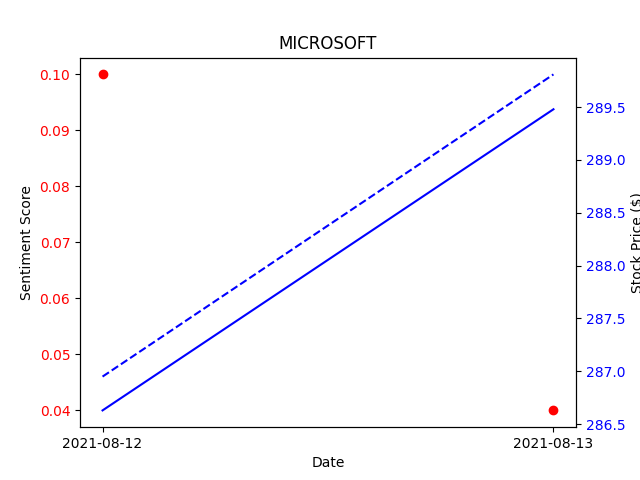
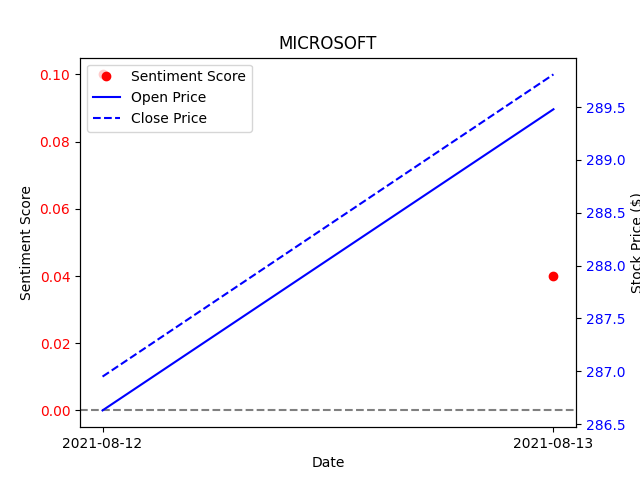
all ready to publish

diff --git a/app/templates/app/about.html b/app/templates/app/about.html
@@ -8,11 +8,10 @@
 <div class="jumbotron">
     <div class="row body-padding">
         <div class="col-md-4">
-            <p>Family is a huge part of who I am. I wouldn't be anything that I am today if it wasn't for the 
-            influence of all of my family members. As the fourth of five children I appreciate the example that each one 
-            in addition to that my parents. They all have provided me with a lot of guidence to get me where I am today.
-            In addition to my family, I grew up in far reaches of Maine and that is something that defines a big part 
-            of who I am. </p>
+            <p>I have loved growing up in Maine, and I have loved growing up with 4 siblings! Being the fourth boy, 
+            I had a lot of older brothers to look up to and learn from. It always a good time being around my siblings, 
+            parents, and extended family. Family is a huge part of my life, and I hope to maintain a close relationship 
+            with all of them.</p>
         </div>
         <div class="col-md-8">
             <img src="../../static/app/img/family.JPG" width="100%"/>
@@ -24,9 +23,9 @@
         </div>
         <div class="col-md-8">
             <p>
-                I like to live by the motto: "Work hard, play hard", so whenever I'm not busy with school work or a 
-                work work, I try to be doing the things that I love. I really enjoy being outside whenever I can, and 
-                being as active as I can be. Rock climbing, canyoneering, backpacking, and just travelling in general 
+                I like to live by the motto: "Work hard, play hard", so whenever I'm not busy with school or work 
+                I am usually active in doing the hobbies that I love. I really enjoy being outside whenever I can: 
+                Rock climbing, canyoneering, backpacking, and just travelling in general 
                 are some of my favorite things to do.  The cold doesn't even scare me! During the winter I enjoy 
                 snowshoeing and skiing. I try to find any reason I can to get outside, be active, and enjoy what nature 
                 has to offer. 

diff --git a/app/templates/app/financial.html b/app/templates/app/financial.html
@@ -5,14 +5,22 @@
 <h2>{{ title }}</h2>
 <h3>{{ message }}</h3>
 
-<p>The basic purpose of this module is to see the effect that the way news is presented has upon the subject matter. 
-    In this study I have decided to follow several companies and compare the tone of news articles about them to their 
-    change in stock prices. In order to analyze the tone, or sentiment, that news articles have towards a company, I have 
-    used APIs and text analytics to create a sentiment score for these companies daily. That score ranges from 1 to -1. A 
+<p>
+    The basic purpose of this module is to see the effect that the tone of news has upon the subject of the story.
+    In this study I have decided to follow several companies and compare the tone of news articles about them to their
+    change in stock prices.
+</p>
+<p>
+    In order to analyze the tone or sentiment that news articles have towards a company, I have 
+    used APIs and text analytics to create a sentiment score for these companies each day. That score ranges from 1 to -1. A 
     positive number indicates a positive sentiment and a negative number indicates a negative sentiment. 
-    This is then graphed side-by-side with the opening and closing stock prices for that company on the same day.</p>
-<p>The blue lines represent the stock prices over time. The solid line is the opening sales price, while the dashed line 
-    is the closing sales price. The red dots are the setiment scores for each day.</p>
+    This is then graphed side-by-side with the opening and closing stock prices for that company on the same day.
+</p>
+<p>
+    The blue lines represent the stock prices over time. The solid line is the opening sales price, while the dashed line 
+    is the closing sales price. The red dots are the setiment scores for each day. Again, if you have any questions or 
+    feedback, feel free to contact me.
+</p>
 
 <!--the tab links for each of the companies-->
 <div class="tab">

diff --git a/app/templates/app/index.html b/app/templates/app/index.html
@@ -7,13 +7,9 @@
         <div class="col-md-8">
             <h2 class="col-md-8">Welcome</h2>
             <p class="lead col-md-8">
-                I've created this website in order to help others get to know me and what I can do in a different way. This
-                website was developed using the MTV format that is associated with a Python-Django app. I have also tried to implement other nifty
-                programming skills that I have learned and enjoyed applying.
-            </p>
-            <p class="lead col-md-8">
-                Feel free to stay a while and enjoy everything that I have put into this website.
-                For questions and other inquiries, please feel free to contact me. You can find my contact info on the
+                I hope you enjoy learning more about me through this website. There are quite a few different pages to explore and 
+                some cool modules that I have added to this website. Feel free to poke around and contact me with any questions or 
+                feedback you may have. You can find my contact info on the
                 <a href="{% url 'contact' %}">Contact</a> page.
             </p>
         </div>
@@ -25,8 +21,8 @@
     <div class="col-md-4">
         <h2>API Implementation</h2>
         <p>
-            I've decided to dedicate a part of my website to show off one way that APIs can be used. Here, my website talks back and forth to another
-            website to get some pretty simple information and then display it on my website.
+            If you're into dad jokes, this is the spot for you! You can find your endless list of dad jokes on this page. Click on 
+            the button for a good laugh!
         </p>
         <p><a class="btn btn-default" href="{% url 'jokes' %}">Check it out &raquo;</a></p>
     </div>

diff --git a/app/templates/app/contact.html b/app/templates/app/contact.html
@@ -6,9 +6,11 @@
 <h3>{{ message }}</h3>
 
 
-<p>I am currently open to any questions regarding website development or job opportunities you may have for me.
+<p>
+    I am currently open to any questions regarding website development or job opportunities you may have for me.
     In addition, feel free to email me regarding comments about my website, like edits or other things you would like to see implemented.
-    Thank you for visiting and getting to know me more. I hope to hear from you soon!</p>
+    Thank you for visiting and getting to know me more. I hope to hear from you soon!
+</p>
 
 <address>
     <strong>Personal Email:</strong>   <a href="mailto:ezrfrost7@gmail.com">ezrafrost7@gmail.com</a><br />
@@ -29,7 +31,7 @@
     <div class="col-md-4">
         <h2>Instagram</h2>
         <p>
-            Curious about my latest adventures? Explore my instagram to see some more recent photos of what I have been up to. 
+            Curious about my latest adventures? Explore my instagram to see some more photos of what I have been up to. 
             I have a fun time taking them, so I hope you enjoy seeing them!
         </p>
         <a href="https://www.instagram.com/zbabylax/">

diff --git a/app/templates/app/jokes.html b/app/templates/app/jokes.html
@@ -10,7 +10,8 @@
     </div>
     <div class="col-md-4">
         <p style="font-size:smaller">On this page I have implemented an API that will generate a new joke every time the user prompts it to.
-        This works by submitting a request from the API for a new joke once the button is pressed. Go ahead! Give it a shot!
+        This works by basically talking to another computer and asking it for a joke. I then display that joke 
+        on the screen. Go ahead! Give it a shot!
         They're pretty funny... or should I say punny.</p>
         <a type="button" href="{% url 'tellJokes' %}" class="btn btn-default">Joke</a>
     </div>

diff --git a/app/templates/app/resume.html b/app/templates/app/resume.html
@@ -111,7 +111,7 @@
                         <li>JavaScript</li>
                         <li>C#</li>
                         <li>AWS</li>
-                        <li>Microsoft Excel and Word</li>
+                        <li>Microsoft Office</li>
                     </ul>
                 </div>
                 <div class="col-md-4">

diff --git a/app/functions.py b/app/functions.py
@@ -122,7 +122,7 @@ def Graphics(companyName):
     ln3 = ax2.plot(df['StockDate'], df['StockClose'], 'b--', label= 'Close Price')
     ax2.tick_params(axis='y', labelcolor='blue')
     ax2.set_ylabel('Stock Price ($)')
-    ns = ln1+ln2+ln3
+    lns = ln1+ln2+ln3
     labs = [l.get_label() for l in lns]
     ax2.legend(lns, labs)
 

diff --git a/jobs/updater.py b/jobs/updater.py
@@ -4,5 +4,5 @@ from .jobs import schedule
 
 def start():
     scheduler = BackgroundScheduler()
-    scheduler.add_job(schedule, 'date', run_date=datetime(2021, 8, 13, 20, 30))
+    scheduler.add_job(schedule, 'date', run_date=datetime(2021, 8, 13, 21, 17))
     scheduler.start()
